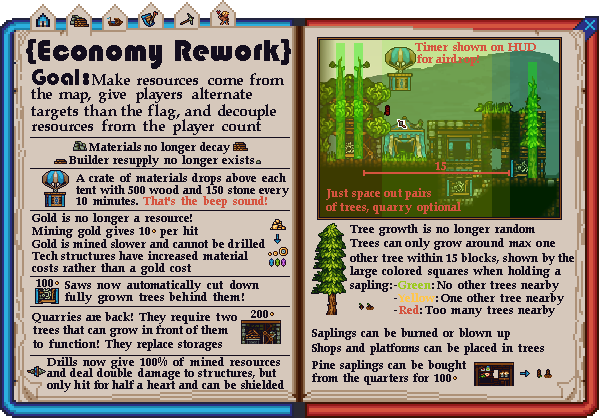
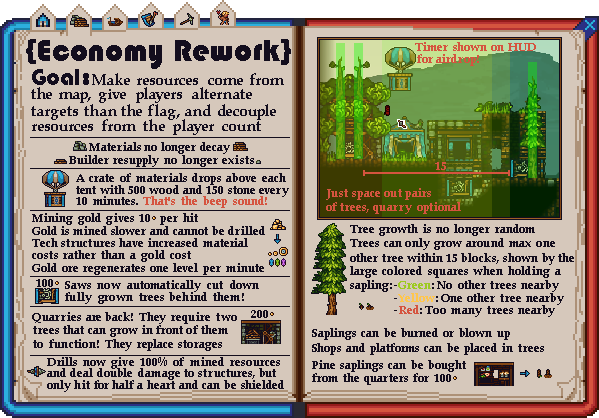
Regen Gold
Gold regenerates one level per minute after the match starts. Gold ore can not be fully destroyed

Changed region(s): [[0.0301, 0.4976, 0.4508, 0.6531]]

diff --git a/README.md b/README.md
@@ -121,6 +121,8 @@ DISCLAIMER: Developed without compatibility with other mods in mind, so there's 
 ### Gold
 - Gives 10 coins per hit instead of gold
 - Gold is only present in middle of map
+- Gold regenerates one level every minute after the match starts
+- Gold can not be fully destroyed
 - No longer damaged by explosives
 - Can no longer be drilled
 - Builders dig gold at the speed that they dig dirt
